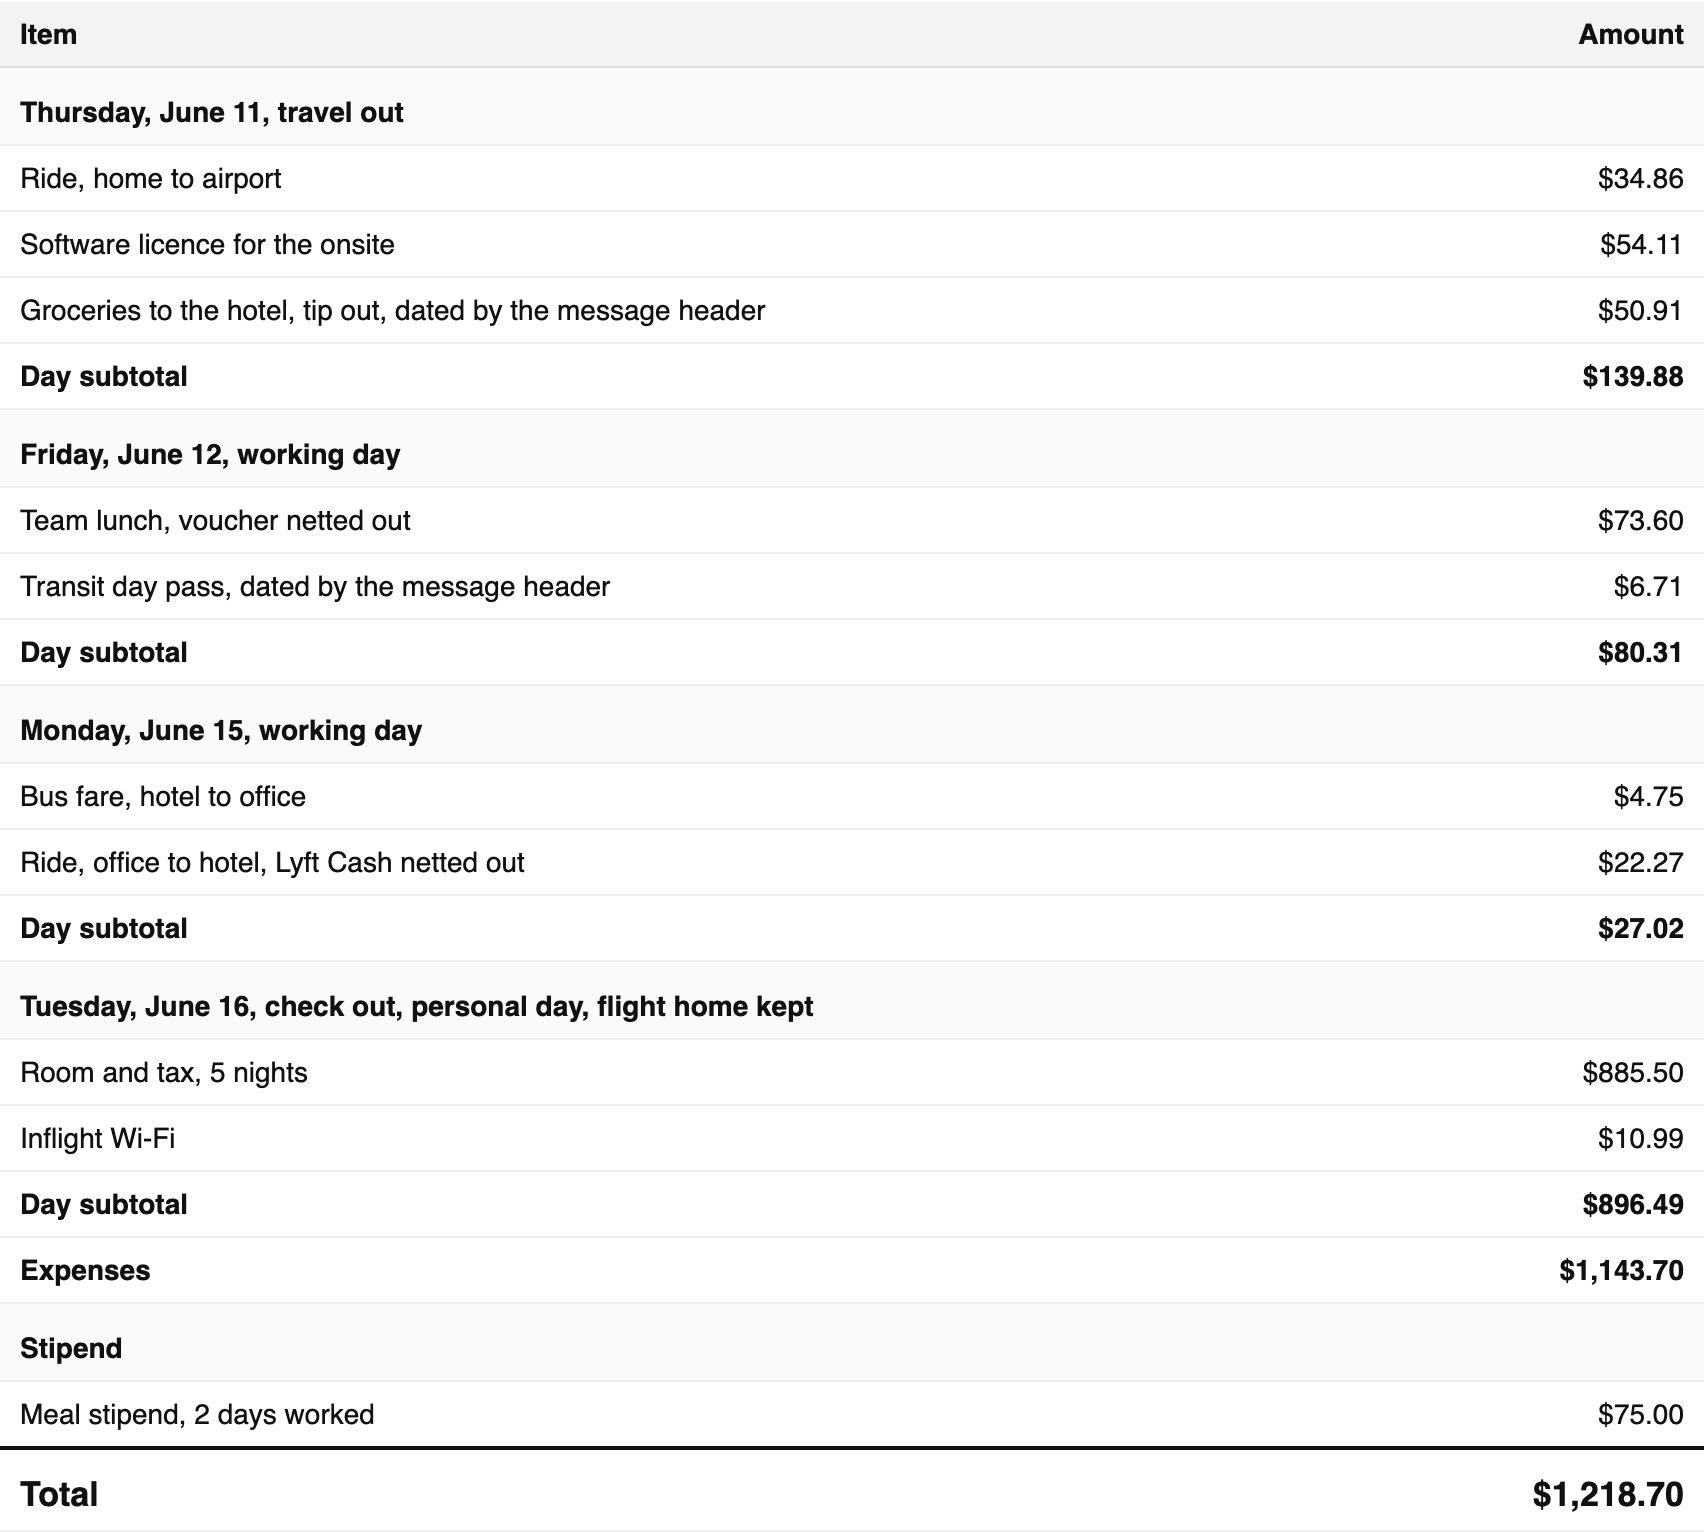
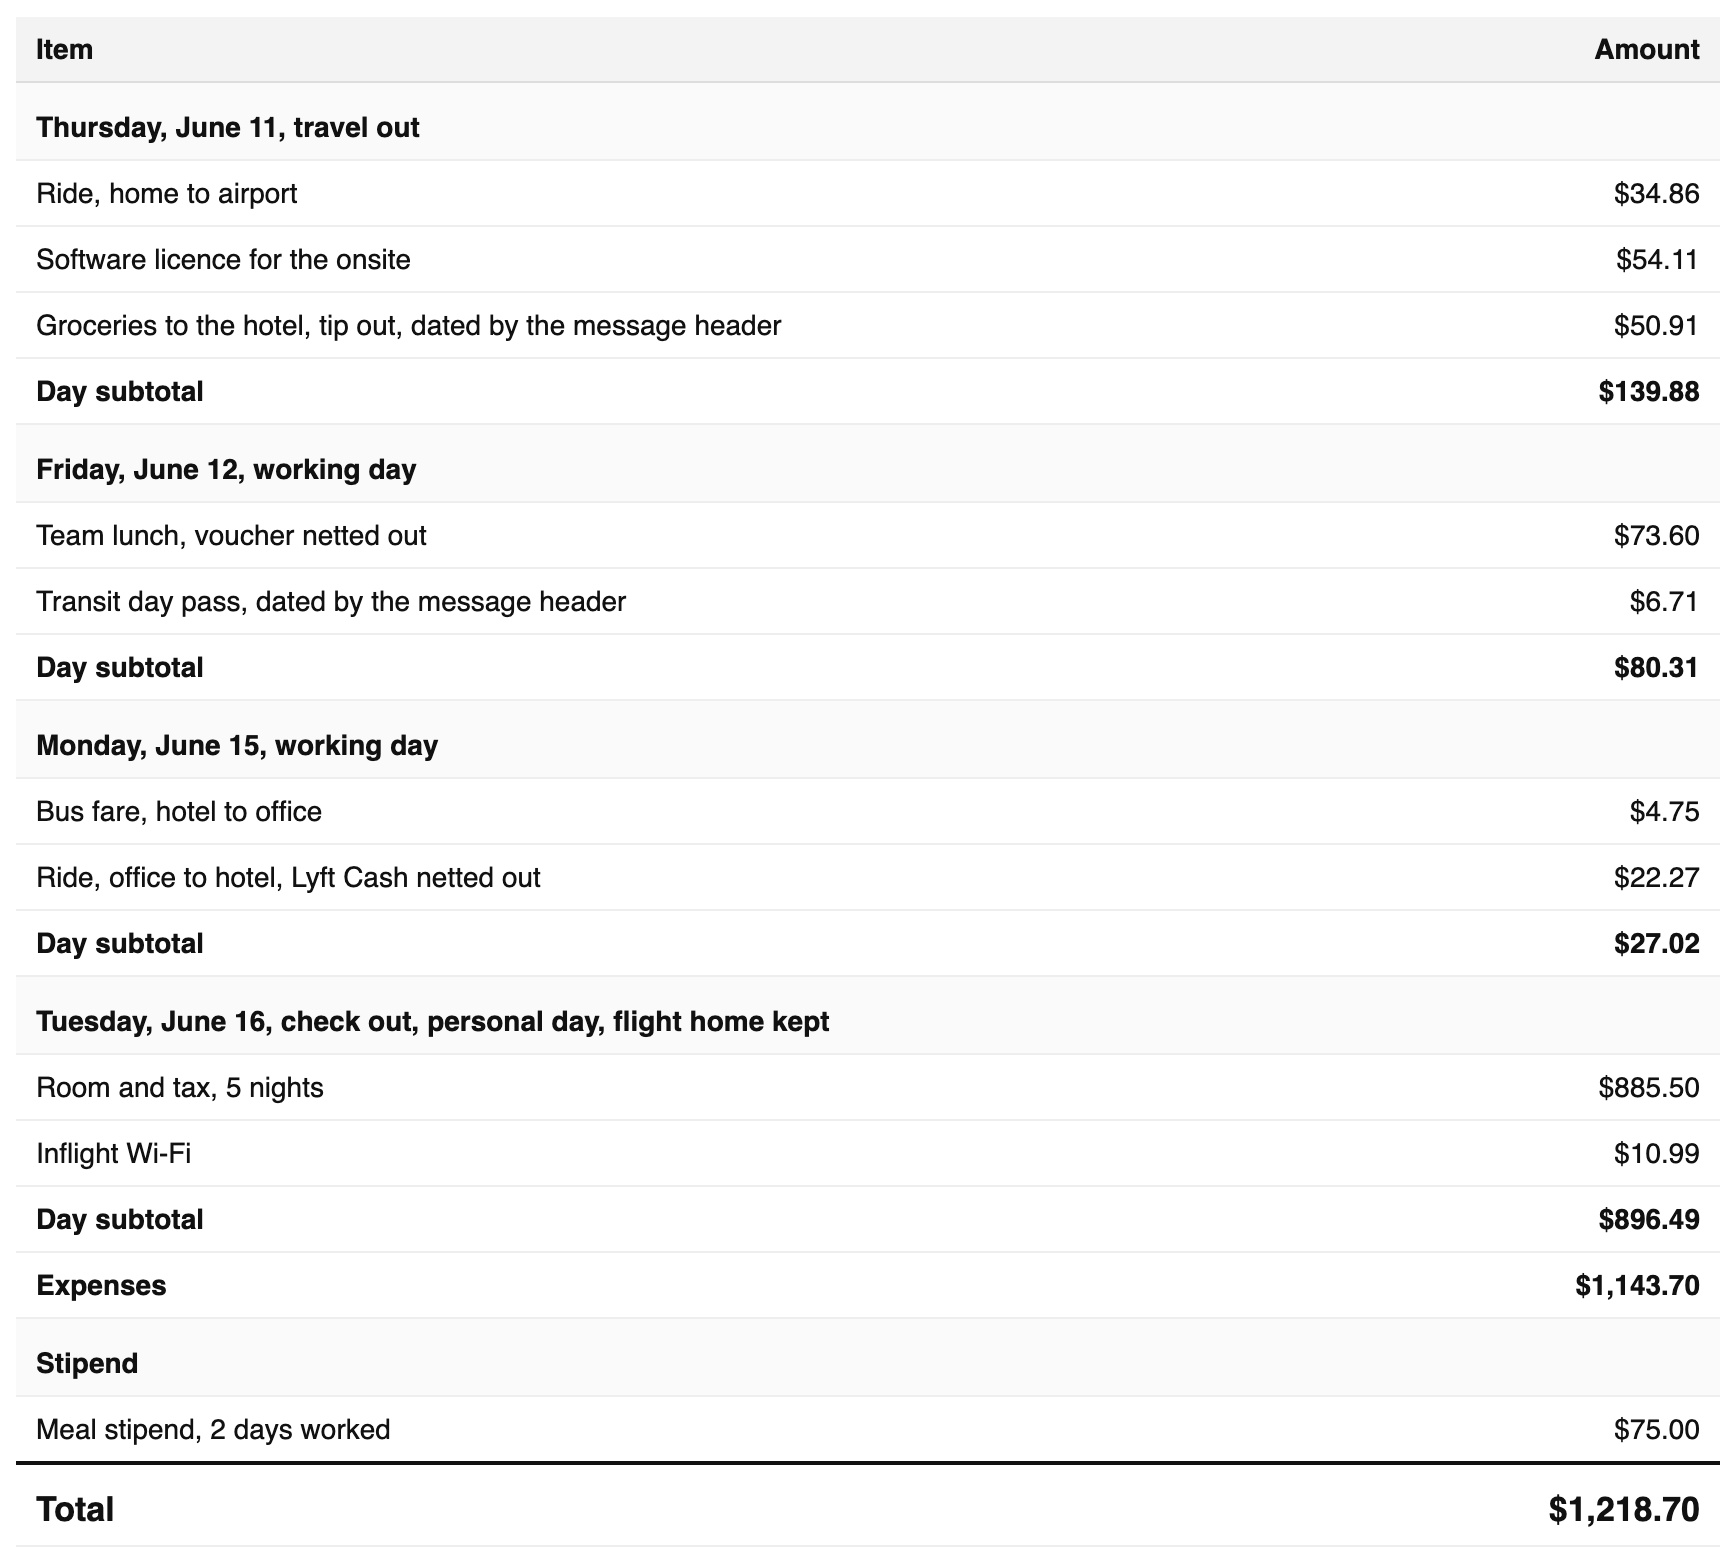
The README shows eight vendor receipts at a glance and a coverage badge
The receipt cell held one Lyft receipt at full height, so the two images in
the table came out at different heights and the pair read as broken. It now
holds a four by two grid of eight receipts taken from the synthetic example:
Lyft, Uber, Uber Eats, DoorDash, United, Marriott, NJ Transit and Stripe.
Every tile is the top of its receipt drawn at the same scale, which is where
the vendor mark and the amounts are.

The two Uber tiles stop above their total row. The packet lays that row out
with an 18px amount cell, so the figure wraps one character to a line; at
thumbnail size it reads as damage rather than as a total, and the header on
its own is the stronger picture anyway.

The summary image is now the summary table alone rather than the whole cover
page. Both cells carry an explicit width, 252 and 520, so the two render at
the same height and the block stays short.

A Codecov badge follows CI in the first badge row. It reads unknown until the
repository is public and a report is uploaded.

diff --git a/README.md b/README.md
@@ -8,6 +8,7 @@
 
 <p align="center">
   <a href=".github/workflows/ci.yml"><img alt="CI" src="https://img.shields.io/github/actions/workflow/status/oficiallyAkshay/boomerang/ci.yml?branch=main&logo=githubactions&logoColor=white&label=CI"></a>
+  <a href="https://codecov.io/gh/oficiallyAkshay/boomerang"><img alt="coverage" src="https://img.shields.io/codecov/c/github/oficiallyAkshay/boomerang?logo=codecov&logoColor=white"></a>
   <img alt="Python 3.11 or newer" src="https://img.shields.io/badge/python-3.11%2B-3776AB?logo=python&logoColor=white">
   <a href="LICENSE"><img alt="MIT licence" src="https://img.shields.io/badge/license-MIT-2f6f4e?logo=opensourceinitiative&logoColor=white"></a>
 </p>
@@ -27,12 +28,12 @@ You spent your own money on someone else's behalf. An onsite interview, a client
 
 Boomerang builds it. Every receipt, the right total, one PDF.
 
-| Summary page | Vendor receipt |
+| Summary page | Vendor receipts |
 | --- | --- |
-| <img alt="Packet summary table: days, subtotals, stipend and total" src="assets/readme/packet-summary.png"> | <img alt="A Lyft ride receipt as it appears in the packet" src="assets/readme/packet-receipt.png"> |
+| <img alt="Packet summary table: days, subtotals, stipend and total" src="assets/readme/packet-summary.png" width="252"> | <img alt="Eight receipts from the packet: Lyft, Uber, Uber Eats, DoorDash, United, Marriott, NJ Transit and Stripe" src="assets/readme/receipts-grid.png" width="520"> |
 
 <p align="center">
-  <sub>The first page and one receipt from the synthetic example in <a href="examples/packet.pdf"><code>examples/packet.pdf</code></a>.</sub>
+  <sub>The first page and the receipts from the synthetic example in <a href="examples/packet.pdf"><code>examples/packet.pdf</code></a>.</sub>
 </p>
 
 ## What you get
